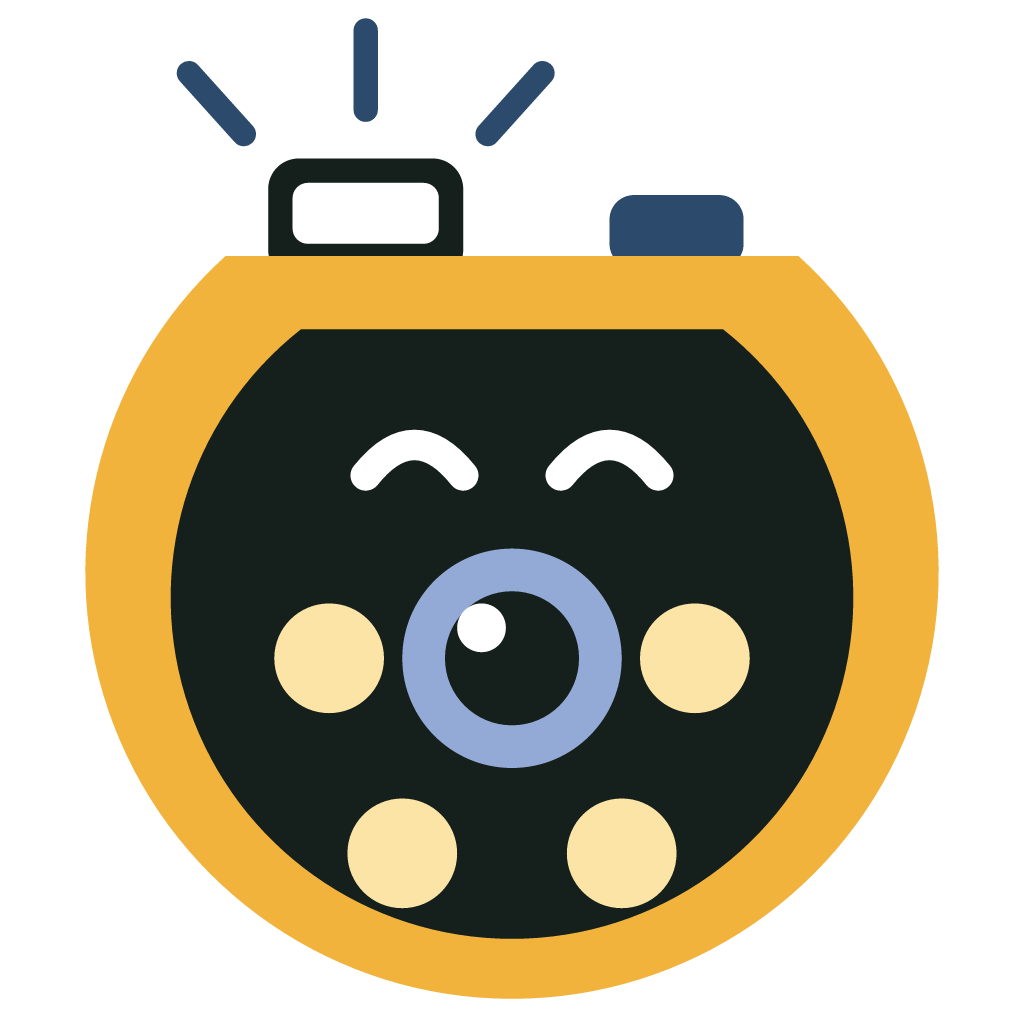
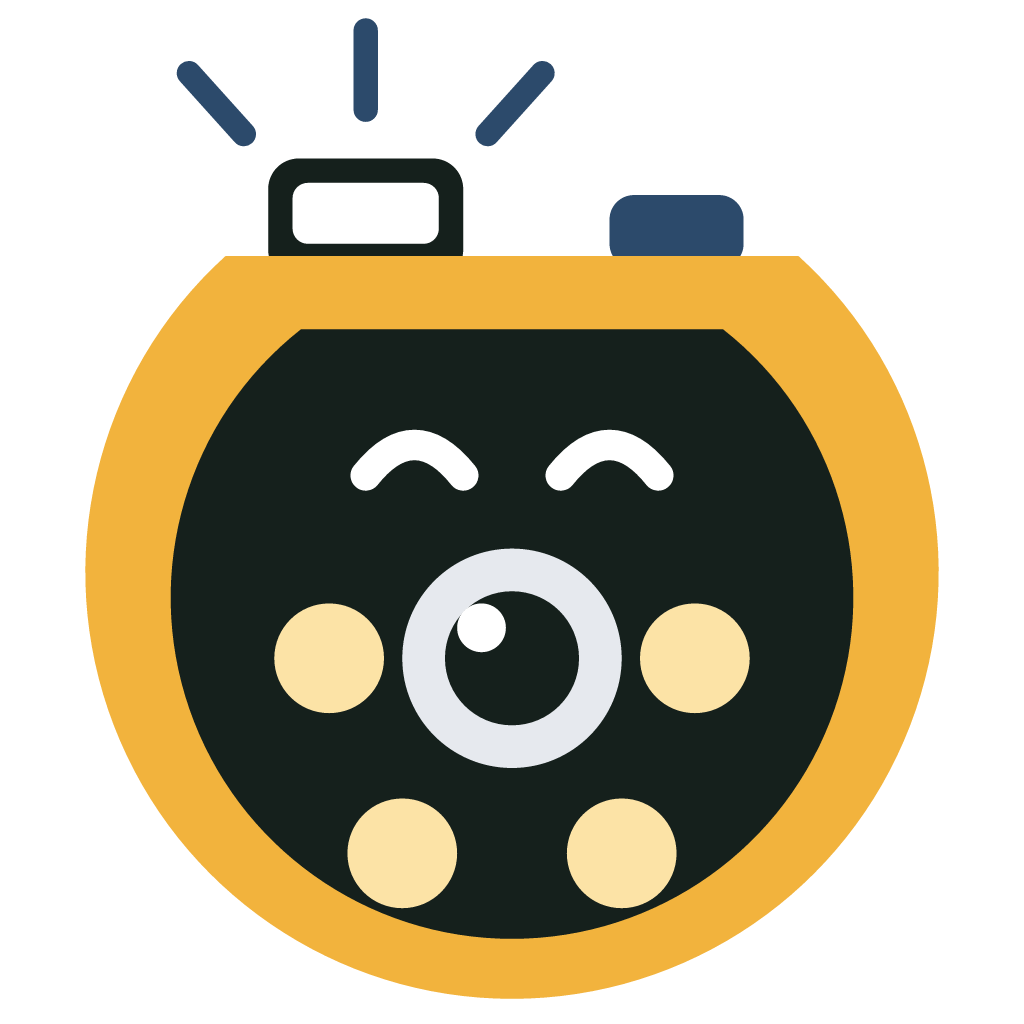
Mascot: ice-white lens instead of light blue
Fernando preferred a neutral lens: #E6E9EE in both themes, next to the
white eyes and flash window. PNGs and favicon.ico re-rendered.

Changed region(s): [[0.375, 0.5312, 0.625, 0.75]]

diff --git a/Design/marca/LEIA-ME.md b/Design/marca/LEIA-ME.md
@@ -9,12 +9,12 @@ Ficha Type 2 com os 7 pinos, a objetiva no pino de terra, o obturador e o flash 
 | Corpo | `#F2B33D` |
 | Face | `#15201C` |
 | Destaque (obturador, raios) | `#2C4A6B` |
-| Objetiva | `#93AAD6` |
+| Objetiva | `#E6E9EE` |
 | Pinos | `#FCE3A6` |
 | Olhos, janela do flash | `#FFFFFF` |
 | Fundo dos ícones de app | `#FBF3E2` |
 
-Em tema escuro, o `favicon.svg` e o `svg/pic-icon.svg` mudam o obturador para `#93AAD6` (o azul do tema escuro do site): o `#2C4A6B` desaparece contra um fundo escuro. A objetiva é sempre `#93AAD6`, nos dois temas: está sobre a face escura, onde o azul escuro não se vê. O `.ico` e os PNG não mudam.
+Em tema escuro, o `favicon.svg` e o `svg/pic-icon.svg` mudam o obturador para `#93AAD6` (o azul do tema escuro do site): o `#2C4A6B` desaparece contra um fundo escuro. A objetiva é sempre `#E6E9EE` (branco gelo), nos dois temas: está sobre a face escura, onde o azul escuro não se vê. O `.ico` e os PNG não mudam.
 
 ## Ficheiros
 
